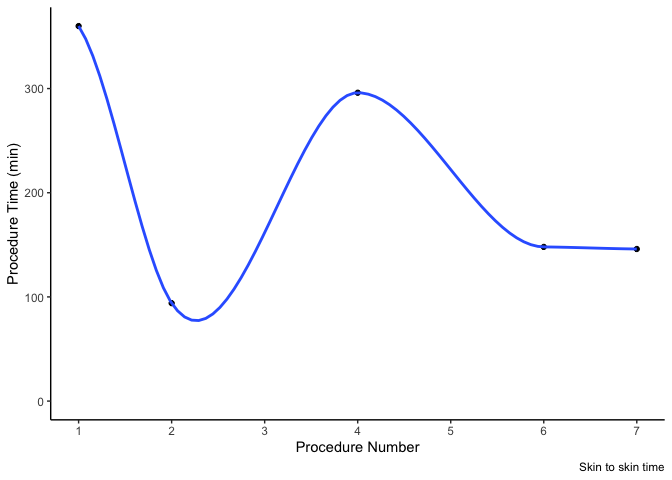
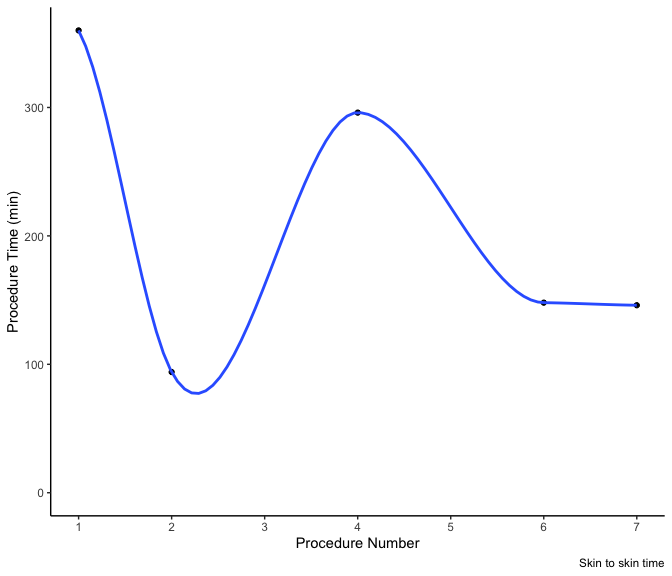
suppress error messages from printing with plots

diff --git a/code/step_3_descriptive_stats.md b/code/step_3_descriptive_stats.md
@@ -4,6 +4,8 @@ author: "Jonathan Salas"
 date: "Last Updated 30 July, 2024"
 output: 
   html_document: 
+    df_print: kable
+    fig_height: 6
     keep_md: true
 ---
 
@@ -12,28 +14,13 @@ output:
 # Import - Point to the correct raw data directory
 
 
-``` r
-raw_data_dir <-"data/processed/working_efficiency_stats.RData"
-```
 
 # Aesthetics
 
 
-``` r
-blank.plot <- theme_bw() +
-  theme(panel.border = element_blank(), 
-        panel.grid.major = element_blank(), #this theme section generates a blank canvas
-        panel.grid.minor = element_blank(), 
-        axis.line = element_line(colour = "black"),
-        legend.title = element_blank(),
-        legend.justification="top")
-```
 
 ## load Subject Data
 
-``` r
-load(raw_data_dir)
-```
 
 # Descriptive Statistics
 
@@ -54,147 +41,14 @@ Hypotheses:
 Make temporary mapping data.
 
 
-``` r
-# Make a procedure number column which is the patient id's numbered sequentially
-temp_map_dat <- cleaned_res |>
-  mutate(proc_num = seq_along(id))
-```
 
 ## Procedure Time
 
 #### Line Plot
 
-
-``` r
-ggplot(data = temp_map_dat, aes(x = proc_num, y = procedure_time_min)) +
-  geom_point() +
-  geom_smooth() +
-  scale_x_continuous(labels = temp_map_dat$proc_num, breaks = temp_map_dat$proc_num) +
-  coord_cartesian(ylim = c(0,max(temp_map_dat$procedure_time_min) + 30)) + 
-  xlab("Procedure Number") +
-  ylab("Procedure Time (min)") +
-  labs(caption = "Skin to skin time") +
-  blank.plot
-```
-
-```
-## `geom_smooth()` using method = 'loess' and formula = 'y ~ x'
-```
-
-```
-## Warning: Removed 2 rows containing non-finite outside the scale range
-## (`stat_smooth()`).
-```
-
-```
-## Warning in simpleLoess(y, x, w, span, degree = degree, parametric = parametric,
-## : span too small.  fewer data values than degrees of freedom.
-```
-
-```
-## Warning in simpleLoess(y, x, w, span, degree = degree, parametric = parametric,
-## : pseudoinverse used at 0.97
-```
-
-```
-## Warning in simpleLoess(y, x, w, span, degree = degree, parametric = parametric,
-## : neighborhood radius 3.03
-```
-
-```
-## Warning in simpleLoess(y, x, w, span, degree = degree, parametric = parametric,
-## : reciprocal condition number 0
-```
-
-```
-## Warning in simpleLoess(y, x, w, span, degree = degree, parametric = parametric,
-## : There are other near singularities as well. 9.1809
-```
-
-```
-## Warning in simpleLoess(y, x, w, span, degree = degree, parametric = parametric,
-## : Chernobyl! trL>n 5
-## Warning in simpleLoess(y, x, w, span, degree = degree, parametric = parametric,
-## : Chernobyl! trL>n 5
-```
-
-```
-## Warning in sqrt(sum.squares/one.delta): NaNs produced
-```
-
-```
-## Warning in predLoess(object$y, object$x, newx = if (is.null(newdata)) object$x
-## else if (is.data.frame(newdata))
-## as.matrix(model.frame(delete.response(terms(object)), : span too small.  fewer
-## data values than degrees of freedom.
-```
-
-```
-## Warning in predLoess(object$y, object$x, newx = if (is.null(newdata)) object$x
-## else if (is.data.frame(newdata))
-## as.matrix(model.frame(delete.response(terms(object)), : pseudoinverse used at
-## 0.97
-```
-
-```
-## Warning in predLoess(object$y, object$x, newx = if (is.null(newdata)) object$x
-## else if (is.data.frame(newdata))
-## as.matrix(model.frame(delete.response(terms(object)), : neighborhood radius
-## 3.03
-```
-
-```
-## Warning in predLoess(object$y, object$x, newx = if (is.null(newdata)) object$x
-## else if (is.data.frame(newdata))
-## as.matrix(model.frame(delete.response(terms(object)), : reciprocal condition
-## number 0
-```
-
-```
-## Warning in predLoess(object$y, object$x, newx = if (is.null(newdata)) object$x
-## else if (is.data.frame(newdata))
-## as.matrix(model.frame(delete.response(terms(object)), : There are other near
-## singularities as well. 9.1809
-```
-
-```
-## Warning in stats::qt(level/2 + 0.5, pred$df): NaNs produced
-```
-
-```
-## Warning: Removed 2 rows containing missing values or values outside the scale range
-## (`geom_point()`).
-```
-
-```
-## Warning in max(ids, na.rm = TRUE): no non-missing arguments to max; returning
-## -Inf
-```
-
 ![](step_3_descriptive_stats_files/figure-html/unnamed-chunk-5-1.png)<!-- -->
 
 #### Box Plots
-
-
-``` r
-ggplot(data = temp_map_dat, aes(x = "", y = procedure_time_min)) +
-  geom_boxplot() +
-  geom_jitter(size = 5) + 
-  xlab("") +
-  ylab("Procedure Time (min)") +
-  labs(caption = "Skin to skin time") +
-  blank.plot
-```
-
-```
-## Warning: Removed 2 rows containing non-finite outside the scale range
-## (`stat_boxplot()`).
-```
-
-```
-## Warning: Removed 2 rows containing missing values or values outside the scale range
-## (`geom_point()`).
-```
 
 ![](step_3_descriptive_stats_files/figure-html/unnamed-chunk-6-1.png)<!-- -->
 
@@ -202,136 +56,9 @@ ggplot(data = temp_map_dat, aes(x = "", y = procedure_time_min)) +
 
 #### Line Plot
 
-
-``` r
-ggplot(data = temp_map_dat, aes(x = proc_num, y = rove_time_min)) +
-  geom_point() +
-  geom_smooth() +
-  scale_x_continuous(labels = temp_map_dat$proc_num, breaks = temp_map_dat$proc_num) +
-  coord_cartesian(ylim = c(0,max(temp_map_dat$rove_time_min) + 30)) + 
-  xlab("Procedure Number") +
-  ylab("Catheter Rove Time (min)") +
-  blank.plot
-```
-
-```
-## `geom_smooth()` using method = 'loess' and formula = 'y ~ x'
-```
-
-```
-## Warning: Removed 2 rows containing non-finite outside the scale range
-## (`stat_smooth()`).
-```
-
-```
-## Warning in simpleLoess(y, x, w, span, degree = degree, parametric = parametric,
-## : span too small.  fewer data values than degrees of freedom.
-```
-
-```
-## Warning in simpleLoess(y, x, w, span, degree = degree, parametric = parametric,
-## : pseudoinverse used at 0.97
-```
-
-```
-## Warning in simpleLoess(y, x, w, span, degree = degree, parametric = parametric,
-## : neighborhood radius 3.03
-```
-
-```
-## Warning in simpleLoess(y, x, w, span, degree = degree, parametric = parametric,
-## : reciprocal condition number 0
-```
-
-```
-## Warning in simpleLoess(y, x, w, span, degree = degree, parametric = parametric,
-## : There are other near singularities as well. 9.1809
-```
-
-```
-## Warning in simpleLoess(y, x, w, span, degree = degree, parametric = parametric,
-## : Chernobyl! trL>n 5
-## Warning in simpleLoess(y, x, w, span, degree = degree, parametric = parametric,
-## : Chernobyl! trL>n 5
-```
-
-```
-## Warning in sqrt(sum.squares/one.delta): NaNs produced
-```
-
-```
-## Warning in predLoess(object$y, object$x, newx = if (is.null(newdata)) object$x
-## else if (is.data.frame(newdata))
-## as.matrix(model.frame(delete.response(terms(object)), : span too small.  fewer
-## data values than degrees of freedom.
-```
-
-```
-## Warning in predLoess(object$y, object$x, newx = if (is.null(newdata)) object$x
-## else if (is.data.frame(newdata))
-## as.matrix(model.frame(delete.response(terms(object)), : pseudoinverse used at
-## 0.97
-```
-
-```
-## Warning in predLoess(object$y, object$x, newx = if (is.null(newdata)) object$x
-## else if (is.data.frame(newdata))
-## as.matrix(model.frame(delete.response(terms(object)), : neighborhood radius
-## 3.03
-```
-
-```
-## Warning in predLoess(object$y, object$x, newx = if (is.null(newdata)) object$x
-## else if (is.data.frame(newdata))
-## as.matrix(model.frame(delete.response(terms(object)), : reciprocal condition
-## number 0
-```
-
-```
-## Warning in predLoess(object$y, object$x, newx = if (is.null(newdata)) object$x
-## else if (is.data.frame(newdata))
-## as.matrix(model.frame(delete.response(terms(object)), : There are other near
-## singularities as well. 9.1809
-```
-
-```
-## Warning in stats::qt(level/2 + 0.5, pred$df): NaNs produced
-```
-
-```
-## Warning: Removed 2 rows containing missing values or values outside the scale range
-## (`geom_point()`).
-```
-
-```
-## Warning in max(ids, na.rm = TRUE): no non-missing arguments to max; returning
-## -Inf
-```
-
 ![](step_3_descriptive_stats_files/figure-html/unnamed-chunk-7-1.png)<!-- -->
 
 #### Box Plots
-
-
-``` r
-ggplot(data = temp_map_dat, aes(x = "", y = rove_time_min)) +
-  geom_boxplot() +
-  geom_jitter(size = 5) + 
-  xlab("") +
-  ylab("Catheter Rove Time (min)") +
-  labs(caption = "Represents sum procedure time spent performing ablation-related activities. ") +
-  blank.plot
-```
-
-```
-## Warning: Removed 2 rows containing non-finite outside the scale range
-## (`stat_boxplot()`).
-```
-
-```
-## Warning: Removed 2 rows containing missing values or values outside the scale range
-## (`geom_point()`).
-```
 
 ![](step_3_descriptive_stats_files/figure-html/unnamed-chunk-8-1.png)<!-- -->
 
@@ -348,19 +75,18 @@ ggplot(data = temp_map_dat, aes(x = "", y = rove_time_min)) +
 ## [1] "RStudio Version 2024.4.2.764 Chocolate Cosmos"
 ```
 
-```
-##         package loadedversion
-## dplyr     dplyr         1.1.4
-## ggplot2 ggplot2         3.5.1
-```
+<div class="kable-table">
+
+|        |package |loadedversion |
+|:-------|:-------|:-------------|
+|dplyr   |dplyr   |1.1.4         |
+|ggplot2 |ggplot2 |3.5.1         |
+
+</div>
 
 # When were these files last rewritten?
 
 
-``` r
-date()
 ```
-
-```
-## [1] "Tue Jul 30 11:39:20 2024"
+## [1] "Tue Jul 30 11:44:30 2024"
 ```
